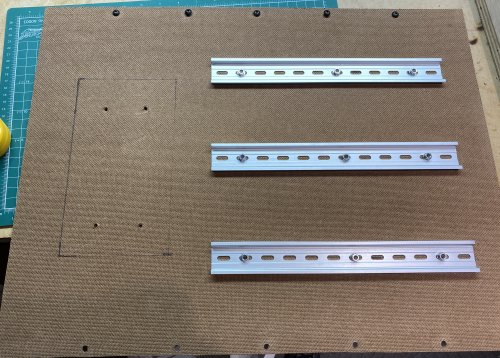
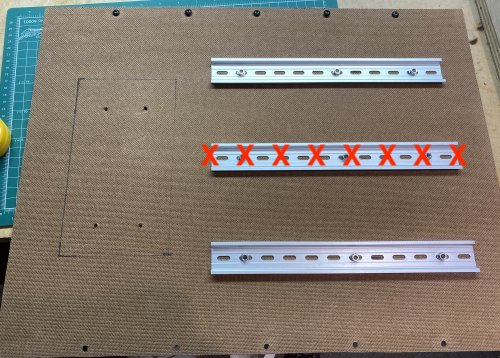
Removed middle DIN Rail and reoriented PSU.

diff --git a/manual/guide/15-electronics-panel.md b/manual/guide/15-electronics-panel.md
@@ -5,18 +5,18 @@
 ### Step 15 BoM
 
 #### Hardware
-| Parts     | Quantity | Details | Example Links |
-|-----------|:--------:|---------|---------------|
-| 576mm (~22 1/2in) 2020 Extrusion | 2 | | |
-| M4 6mm Socket Head Cap Screws | 4 | | [Aliexpress](https://www.aliexpress.com/item/10000148429238.html?spm=a2g0s.9042311.0.0.18d04c4do8Elvl) |
-| M5 Washers | 9 | DIN125| |
-| M5 Nuts | 9 | DIN934 | |
-| M5 T-Nuts | 26 | Hammer Head/Drop In Style | |
-| M5 8mm Socket Head Cap Screws | 35 | DIN912 | |
-| [2020 M5 Angle Brackets](img/all-PlateVsBracket.jpeg) (Brackets) | 16 | | [Amazon](https://amzn.to/3rRVq7U) |
-| Din Rail | 3 | 12 in (~300mm) | [Amazon](https://www.amazon.com/gp/product/B082DLNVZD/ref=ppx_yo_dt_b_asin_image_o01_s00?ie=UTF8&psc=1) [AliExpress](https://s.click.aliexpress.com/e/_At6lEP) |
+| Parts     |   Quantity    | Details | Example Links |
+|-----------|:-------------:|---------|---------------|
+| 576mm (~22 1/2in) 2020 Extrusion |       2       | | |
+| M4 6mm Socket Head Cap Screws |       4       | | [Aliexpress](https://www.aliexpress.com/item/10000148429238.html?spm=a2g0s.9042311.0.0.18d04c4do8Elvl) |
+| M5 Washers |       9       | DIN125| |
+| M5 Nuts |       9       | DIN934 | |
+| M5 T-Nuts |      26       | Hammer Head/Drop In Style | |
+| M5 8mm Socket Head Cap Screws |      35       | DIN912 | |
+| [2020 M5 Angle Brackets](img/all-PlateVsBracket.jpeg) (Brackets) |      16       | | [Amazon](https://amzn.to/3rRVq7U) |
+| Din Rail |       2       | 12 in (~300mm) | [Amazon](https://www.amazon.com/gp/product/B082DLNVZD/ref=ppx_yo_dt_b_asin_image_o01_s00?ie=UTF8&psc=1) [AliExpress](https://s.click.aliexpress.com/e/_At6lEP) |
 | Tempered Hardboard (Masonite) | 440mm x 574mm | 1/8 in (~3mm) Thick<br>You'll need enough for all the panels | [Home Depot](https://www.homedepot.com/p/1-8-in-x-2-ft-x-4-ft-Tempered-Hardboard-Actual-0-115-in-x-23-75-in-x-47-75-in-109112/202585358) [B&Q](https://www.diy.com/departments/brown-hardboard-l-1-22m-w-0-61m-t-3mm/1696235_BQ.prd) [Bunnings](https://www.bunnings.com.au/masonite-1200-x-915-x-3-2mm-handypanel_p0242391) [Aliexpress](https://www.aliexpress.com/item/32988813396.html) |
-| Mean Well Power Supply | 1 | SE-450-24 24V18.8A | [Aliexpress](https://www.aliexpress.com/item/32988813396.html) |
+| Mean Well Power Supply |       1       | SE-450-24 24V18.8A | [Aliexpress](https://www.aliexpress.com/item/32988813396.html) |
 
 #### Printed Parts
 | Parts     | Quantity | Details |
@@ -91,32 +91,32 @@
     ![](img/15-AlignTopExt.JPG)\
     *fig 15.11*
 
-7. Using the 2 brackets attach the top extrusion on the left and right sides. Once the extrusion is secured remove the brackets you attached to help align the extrusion and reattach next to the other 2. There should be 2 brackets per side, all facing the front (same way as the bottom extrusion Fig 15.6).
+6. Using the 2 brackets attach the top extrusion on the left and right sides. Once the extrusion is secured remove the brackets you attached to help align the extrusion and reattach next to the other 2. There should be 2 brackets per side, all facing the front (same way as the bottom extrusion Fig 15.6).
 
     ![](img/15-AttachTopExt.JPG)\
     *fig 15.12*
 
-8. With the frame resting on it's front, rest the 440mm x 574mm Tempered Hardboard panel on the 2x 576mm extrusions you just attached. Clamp as shown in the picture.
+7. With the frame resting on it's front, rest the 440mm x 574mm Tempered Hardboard panel on the 2x 576mm extrusions you just attached. Clamp as shown in the picture.
 
     ![](img/15-ClampPanelTop.JPG)\
     *fig 15.13*
 
-9. Using the 3D printed extruder mount as a guide, trace hole locations on the Blue Tape. Do this for the top and bottom of the panel. Just make sure the panel isn't warped when you do the bottom.
+8. Using the 3D printed extruder mount as a guide, trace hole locations on the Blue Tape. Do this for the top and bottom of the panel. Just make sure the panel isn't warped when you do the bottom.
 
     ![](img/15-TraceHoles.JPG)\
     *fig 15.14*
 
-10. Measure out mounting holes for the Din Rails and power supply location.
+9. Measure out mounting holes for the Din Rails and power supply location. **No middle rail**
 
-    ![](img/15-PSandRailLines.JPG)\
-    *fig 15.15*
+   ![](img/15-PSandRailLines.JPG)\
+   *fig 15.15*
 
-11. Using a Din Rail as a template, mark 3 mounting hole locations per rail.
+10. Using a Din Rail as a template, mark 3 mounting hole locations per rail.
 
     ![](img/15-DinRailTemplate.JPG)\
     *fig 15.16*
 
-12. Create a mounting hole template for the power supply using blue tape.
+11. Create a mounting hole template for the power supply using blue tape. Update: Skip the middle DIN rail.
 
     ![](img/15-MakePSTemplate.JPG)\
     *fig 15.17*
@@ -128,8 +128,8 @@
 
 14. Drill M4 sized holes (11/64" or ~4.5mm) for the power supply and drill M5 (7/32" or ~5.5mm) sized holes for everything else. You should have 4 M4 (Power Supply) and 19 M5 holes (Rails and Panel Mount).
 
-    ![](img/19-DrillHoles.JPG)\
-    *fig 15.18*
+    ![](img/15-DrillHoles.JPG)\
+    *fig 15.19*
 
     Note: It can be helpful to drill a pilot hole with a much smaller bit (1/16" or 1.5mm). This will help you to drill the hole in the exact location you marked.
 
@@ -138,7 +138,7 @@
     ![](img/15-XactoCleanup.JPG)\
     *fig 15.20*
 
-16. Mount the rails using M5 8mm Screws,washers (Only needed on the rail side) and Nuts.
+16. Mount the rails using M5 8mm Screws,washers (Only needed on the rail side) and Nuts. **No middle rail**
 
     ![](img/15-MountRailDetail.JPG)\
     *fig 15.21*
@@ -155,7 +155,7 @@
 
     Note: If the holes don't line up you can use the X-Acto Knife to widen or lengthen them.
 
-18. Here's what the front and back of the electronics panel should look like with everything mounted. Note that M5 8mm screws and T-Nuts have been put in the remaining holes.
+18. Here's what the front and back of the electronics panel should look like with everything mounted. Note that M5 8mm screws and T-Nuts have been put in the remaining holes. **Power supply should have terminals on top**
 
     ![](img/15-ElecPanelFront.JPG)\
     *fig 15.24*
